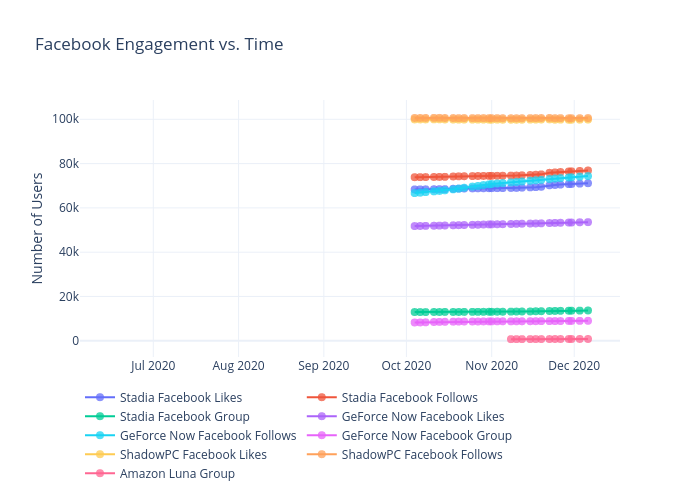
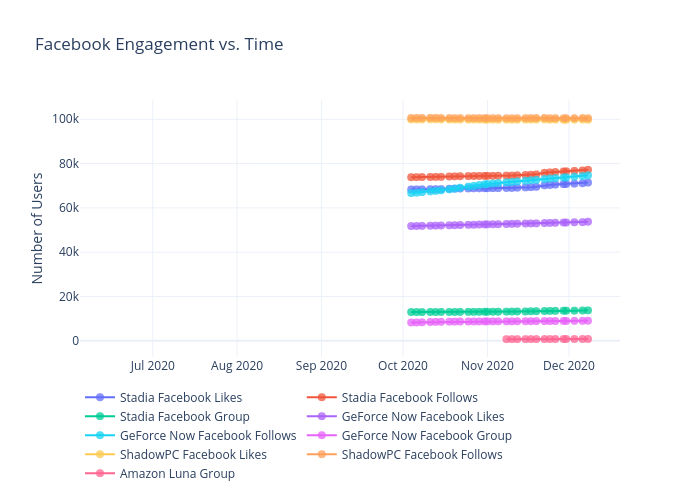
Add files via upload
Tuesday Data

diff --git a/facebook/figure.js b/facebook/figure.js
@@ -88,7 +88,8 @@ var figure = {
                 "70730",
                 "70793",
                 "70958",
-                "71140"
+                "71140",
+                "71426"
             ],
             "marker": {
                 "size": 8,
@@ -186,7 +187,8 @@ var figure = {
                 "76431",
                 "76503",
                 "76686",
-                "76884"
+                "76884",
+                "77191"
             ],
             "marker": {
                 "size": 8,
@@ -284,7 +286,8 @@ var figure = {
                 "13572",
                 "13584",
                 "13616",
-                "13684"
+                "13684",
+                "13740"
             ],
             "marker": {
                 "size": 8,
@@ -382,7 +385,8 @@ var figure = {
                 "53371",
                 "53398",
                 "53493",
-                "53562"
+                "53562",
+                "53771"
             ],
             "marker": {
                 "size": 8,
@@ -480,7 +484,8 @@ var figure = {
                 "73719",
                 "73803",
                 "74120",
-                "74355"
+                "74355",
+                "74700"
             ],
             "marker": {
                 "size": 8,
@@ -578,7 +583,8 @@ var figure = {
                 "8952",
                 "8964",
                 "8986",
-                "9024"
+                "9024",
+                "9055"
             ],
             "marker": {
                 "size": 8,
@@ -676,7 +682,8 @@ var figure = {
                 "99788",
                 "99796",
                 "99832",
-                "99878"
+                "99878",
+                "99808"
             ],
             "marker": {
                 "size": 8,
@@ -774,7 +781,8 @@ var figure = {
                 "100464",
                 "100472",
                 "100510",
-                "100556"
+                "100556",
+                "100486"
             ],
             "marker": {
                 "size": 8,
@@ -872,7 +880,8 @@ var figure = {
                 "805",
                 "805",
                 "813",
-                "819"
+                "819",
+                "818"
             ],
             "marker": {
                 "size": 8,
@@ -890,8 +899,8 @@ var figure = {
         "xaxis": {
             "type": "date",
             "range": [
-                "2020-06-05 03:48:08.3882",
-                "2020-12-16 20:11:51.6118"
+                "2020-06-05 00:47:39.3522",
+                "2020-12-18 23:12:20.6478"
             ],
             "title": {
                 "text": ""
@@ -901,8 +910,8 @@ var figure = {
         "yaxis": {
             "type": "linear",
             "range": [
-                -10802.329373650107,
-                112193.32937365011
+                -11173.513761467892,
+                112564.5137614679
             ],
             "title": {
                 "text": "Number of Users"
